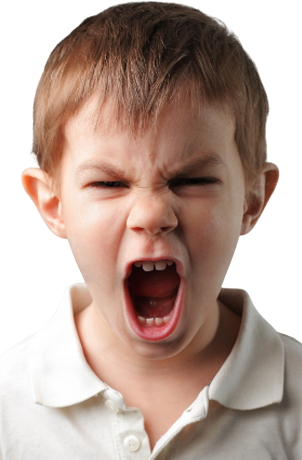
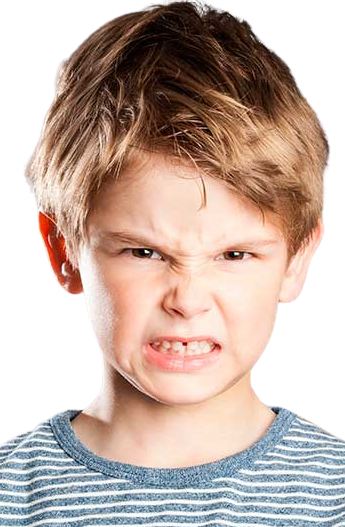
Ajustes de prueba segun feedback de la Expo
. La duracion despues de "Estoy Listo" se saca ( Se oculta poniendo  opacity={0} )
. Se reduce a 2 imagenes y con fiabilidad del 50% (1 de 2 imagenes tiene que coincidir)
. Se aumenta el tamaño de Ya!
. La imagen de enojo real se modifica ya que algunas personas se confundian

diff --git a/src/screens/PerformEmotionScreen/PerformEmotionScreen.tsx b/src/screens/PerformEmotionScreen/PerformEmotionScreen.tsx
@@ -31,9 +31,9 @@ const PerformEmotionScreen: FC<PerformEmotionType> = ({route, navigation}) => {
   const [userReady, setUserReady] = useState(false);
   const [startDetectionEmotion, setStartDetectionEmotion] = useState(false);
   const {updateInsignias} = useUserData();
-  const percentage = '75'; // Porcentaje minimo de aciertos (Primer criterio de aceptacion)
-  const consecutiveRecognitionSuccess = '2'; // Cantidad de aciertos consecutivos (Segundo criterio de aceptacion)
-  const numImagesToCapture = 3; // Cantidad de fotos para el muestreo
+  const percentage = '49'; // Porcentaje minimo de aciertos (Primer criterio de aceptacion)
+  const consecutiveRecognitionSuccess = '1'; // Cantidad de aciertos consecutivos (Segundo criterio de aceptacion)
+  const numImagesToCapture = 2; // Cantidad de fotos para el muestreo
   let pathsImages = ['']; // Solo se usa para almacenar el path de la imagen para eliminarla despues del proceso
   const [procesando, setProcesando] = useState(false);
   const navigateToFeedback = useCallback(
@@ -200,7 +200,7 @@ const PerformEmotionScreen: FC<PerformEmotionType> = ({route, navigation}) => {
           </Button>
         ) : !finishedCountDown ? (
           <Countdown
-            duration={3}
+            duration={0}
             size={40}
             color="#FF00FF"
             onFinished={() => setFinishedCountDown(true)}

diff --git a/src/screens/PerformEmotionScreen/CountDown.tsx b/src/screens/PerformEmotionScreen/CountDown.tsx
@@ -45,7 +45,7 @@ const Countdown = ({
       style={{
         alignItems: 'center',
       }}>
-      <Text fontSize={size} color={color}>
+      <Text fontSize={size} color={color} opacity={0}>
         {formatTime(remainingTime)}
       </Text>
     </View>

diff --git a/src/screens/PerformEmotionScreen/PerformEmotionScreen.style.ts b/src/screens/PerformEmotionScreen/PerformEmotionScreen.style.ts
@@ -17,7 +17,7 @@ export const makePerformEmotionScreenStyles = () =>
       width: '100%',
     },
     text: {
-      fontSize: 32,
+      fontSize: 40,
       color: '#FF00FF',
     },
     processingOverlay: {
